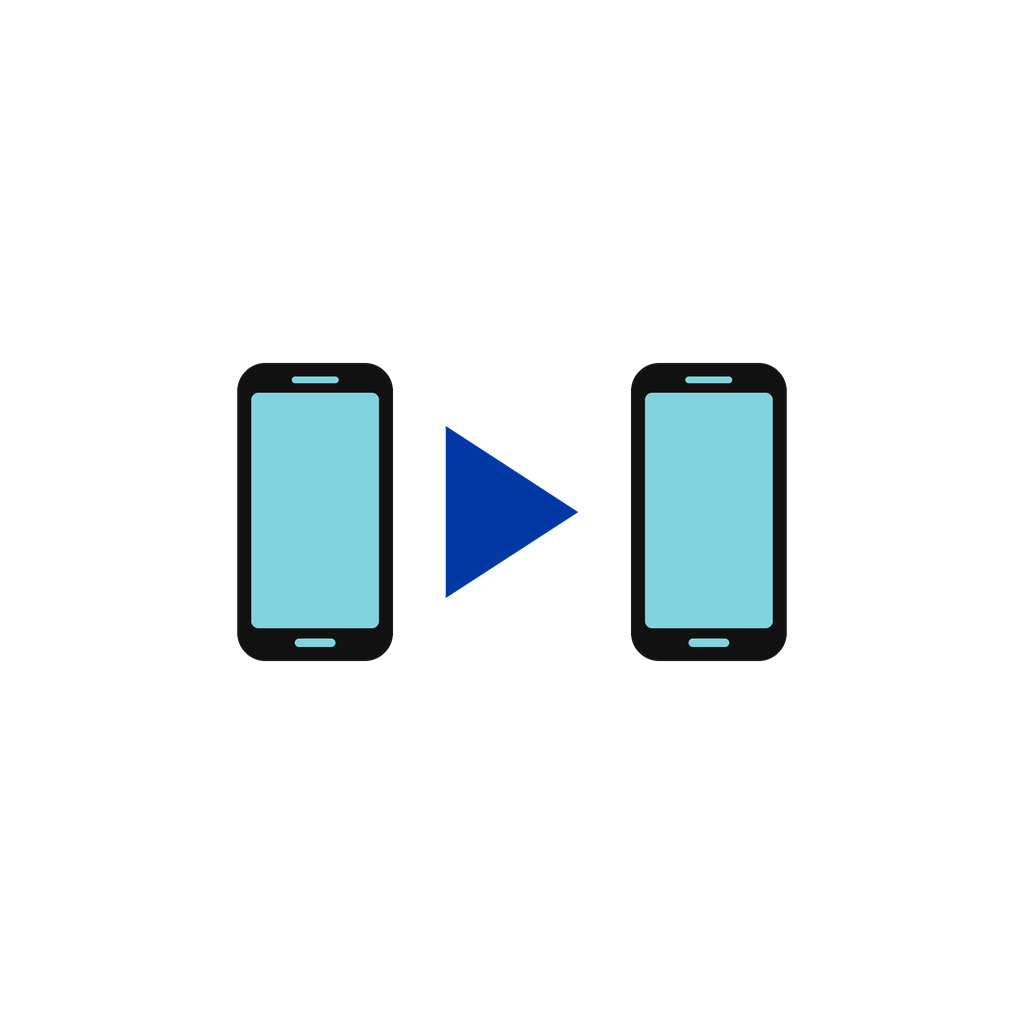
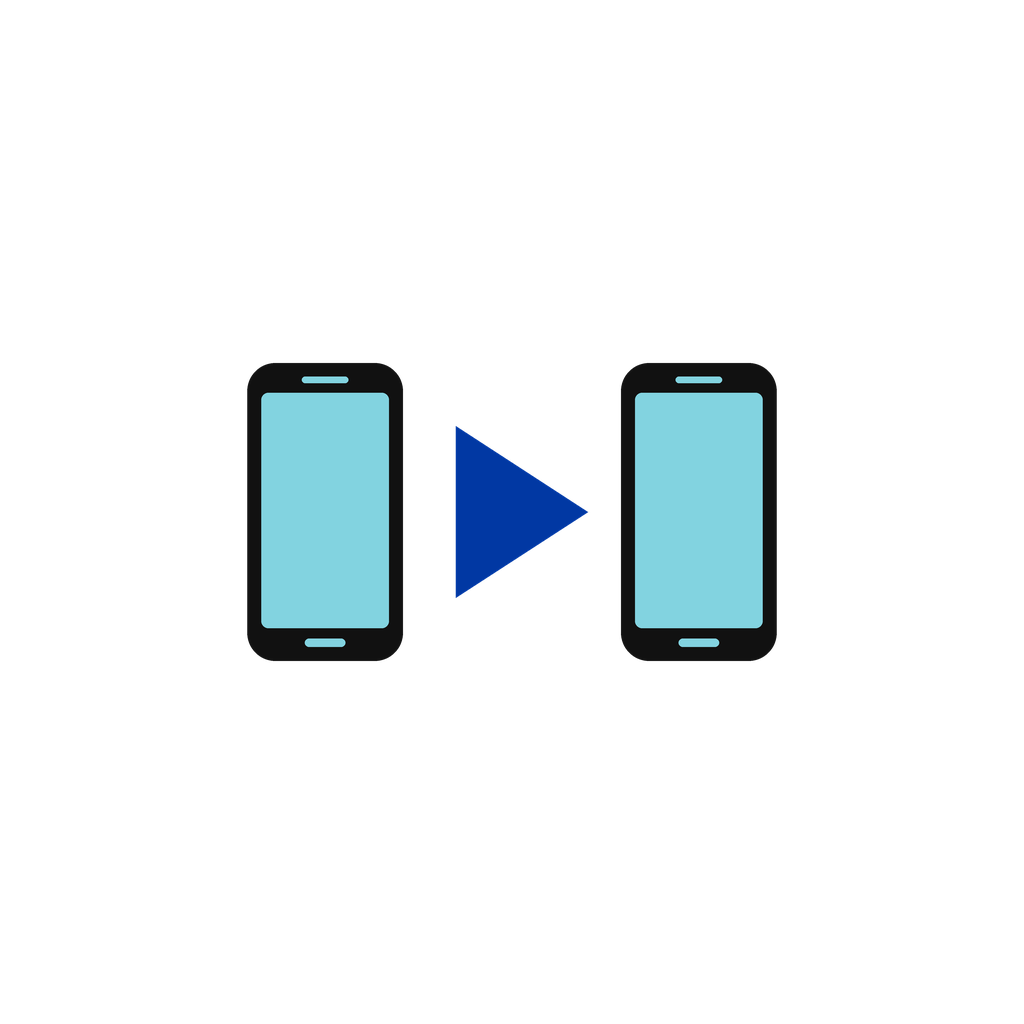
Close the gap between the triangle and the right phone

diff --git a/lib/globals.dart b/lib/globals.dart
@@ -18,7 +18,7 @@ final GlobalKey<NavigatorState> navigatorKey = GlobalKey<NavigatorState>();
 
 const String prgName = 'easysend';
 const String progVersion = '0.1.260810';
-const int buildNumber = 55;
+const int buildNumber = 57;
 const String progAuthor = 'Eugen';
 
 const String langFile = 'assets/locales.json';

diff --git a/tools/make_icon.py b/tools/make_icon.py
@@ -24,7 +24,14 @@ TEAL = (130, 211, 224)  # #82D3E0, the screens
 TRIANGLE = (1, 56, 163)  # #0138A3, 9.4:1 against the cream
 INK = (17, 17, 17)  # #111111, the phone bodies
 
-HEIGHT = 0.45  # phone height as a fraction of the canvas
+# Everything below is a fraction of the canvas. The triangle narrows to a point,
+# so an equal gap on both sides of it reads as a hole on the right: the right one
+# is closed to about half.
+PHONE_W, PHONE_H = 0.235, 0.45
+TRI_W, TRI_H = 0.20, 0.26
+GAP_LEFT = 0.08
+GAP_RIGHT = 0.05
+
 # The round launcher mask leaves a 61% circle. The far corner of the drawing has
 # to sit inside it, and this is the scale at which it does.
 SAFE = 0.646
@@ -86,13 +93,17 @@ def drawing(background, scale=1.0):
     s = SIZE * SS
     im = Image.new("RGBA", (s, s), background)
     d = ImageDraw.Draw(im)
-    pw, ph = s * 0.235 * scale, s * HEIGHT * scale
-    margin = s / 2 - s * 0.415 * scale
-    y = (s - ph) / 2
-    phone(d, margin, y, pw, ph)
-    phone(d, s - margin - pw, y, pw, ph)
-    tw, th = s * 0.20 * scale, s * 0.26 * scale
-    triangle(d, (s - tw) / 2, (s - th) / 2, tw, th)
+    pw, ph = s * PHONE_W * scale, s * PHONE_H * scale
+    tw, th = s * TRI_W * scale, s * TRI_H * scale
+    # Laid out left to right from the group's own width, so closing one gap
+    # moves the pieces and leaves the whole drawing centred.
+    total = (PHONE_W + GAP_LEFT + TRI_W + GAP_RIGHT + PHONE_W) * scale * s
+    x = (s - total) / 2
+    phone(d, x, (s - ph) / 2, pw, ph)
+    x += pw + s * GAP_LEFT * scale
+    triangle(d, x, (s - th) / 2, tw, th)
+    x += tw + s * GAP_RIGHT * scale
+    phone(d, x, (s - ph) / 2, pw, ph)
     return im.resize((SIZE, SIZE), Image.LANCZOS)
 
 

diff --git a/CHANGELOG.md b/CHANGELOG.md
@@ -2,6 +2,7 @@
 > N=new feature, E=error fix, F=fine-tune, R=refactor, I=infrastructure, T=tag
 
 ## Unreleased
+- F: The right phone in the icon sits closer to the triangle: the point takes up less room than the base, so equal gaps left a hole on that side
 - I: A split APK carries the build number as its version code again, instead of the abi * 1000 + build the Flutter plugin writes for stores
 - E: The receive folder opens on Samsung again: the intent offered the file manager a URI the app does not own, and Android refused to start it at all; a refused intent now also falls through to the next way in instead of ending the call
 - E: The desktop build quits without the abort in the engine's GTK teardown: the services are stopped and the process ends, instead of handing the window back to a compositor cleanup with no GL context left
